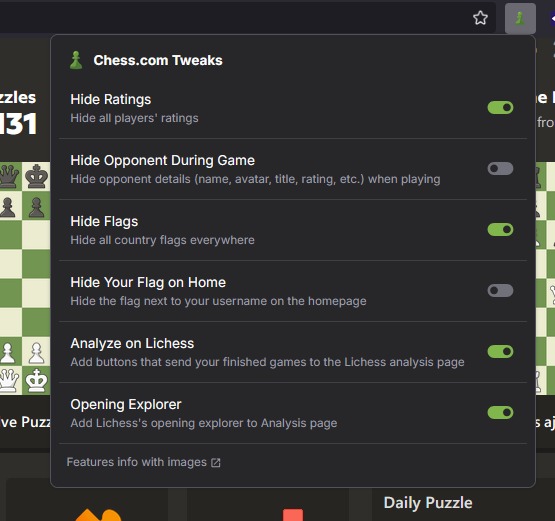
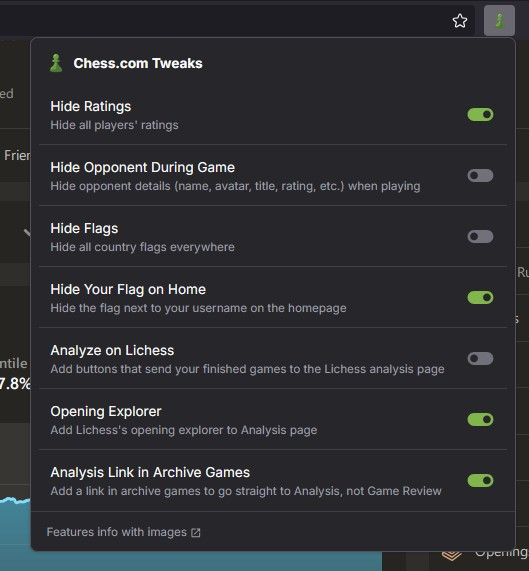
docs: update `README.md` and other description fields

diff --git a/README.md b/README.md
@@ -2,7 +2,7 @@
 
 [![Firefox Addons Link](https://img.shields.io/badge/Firefox-1.6.2-blue?style=flat&logo=firefoxbrowser&logoColor=white)](https://addons.mozilla.org/en-US/firefox/addon/chesscom-tweaks/)
 
-Chess.com Tweaks is a Firefox extension that helps you customize your Chess.com experience by hiding distracting elements like player ratings, opponent details, and country flags. It can also send your games to Lichess analysis, and integrate the Lichess opening explorer directly into the Chess.com analysis page.
+Chess.com Tweaks is a Firefox extension that enhances your Chess.com experience by decluttering the interface and providing additional analysis tools.
 
 [<img src="https://extensionworkshop.com/assets/img/documentation/publish/get-the-addon-178x60px.dad84b42.png" alt="">](https://addons.mozilla.org/en-US/firefox/addon/chesscom-tweaks/)
 
@@ -51,3 +51,9 @@ Add buttons that send your finished games to the Lichess analysis page
 Add Lichess's opening explorer to Analysis page
 
 ![opening explorer](./screenshots/openingExplorer.jpg)
+
+### Analysis Link in Archive Games
+
+Add a link in archive games to go straight to Analysis, not Game Review
+
+![analysis link in archive games](./screenshots/analysisLinkInArchive.jpg)
